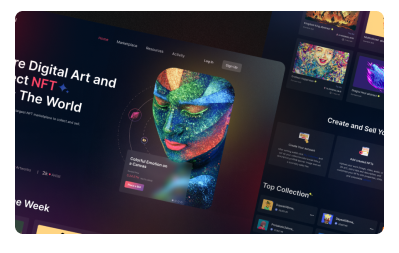
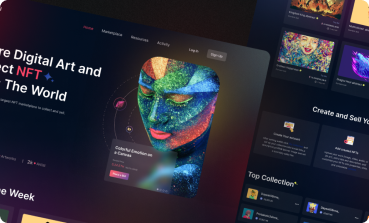
commit

diff --git a/index.html b/index.html
@@ -25,45 +25,55 @@
                             <span></span>
                         </label>
                         <ul class="mobileView d-flex align-items-center mb-0 px-0 justify-content-center gap-40">
-                            <li><a class="text-decoration-none font1" href="#">Home</a></li>
-                            <li><a class="text-decoration-none font2" href="#">Services</a></li>
-                            <li><a class="text-decoration-none font2" href="#">Projects</a></li>
-                            <li><a class="text-decoration-none font2" href="#">About</a></li>
-                            <li class="ml-180"><button class="button1 font3">Connect Wallet</button></li> 
+                            <li><a class="text-decoration-none font1 hover2" href="#">Home</a></li>
+                            <li><a class="text-decoration-none font2 hover2" href="#">Services</a></li>
+                            <li><a class="text-decoration-none font2 hover2" href="#">Projects</a></li>
+                            <li><a class="text-decoration-none font2 hover2" href="#">About</a></li>
+                            <li class="ml-180"><button class="button1 font3">Connect Wallet</button></li>
                         </ul>
                     </div>
                 </div>
             </nav>
         </header>
-        <div class="bg-img d-flex flex-grow-1 align-items-center position-relative">
-            <div class="container">
-                <div class="row">
-                    <div class="col-lg-6 col-12">
-                        <h1 class="font4 lines">We are believers decentralization andspa Web3.</h1>
-                        <p class="font5">Vulputate tristique habitant neque, accumsan. Vitae ultrices nulla erat nibh
-                            aliquam, quis tempus volutpat arcu. Leo convallis luctus dis malesuada turpis non consequat
-                            ac.
-                        </p>
-                        <div class="d-flex gap-32">
-                            <button class="button2 font6 mb-0">Get Started <svg width="18" height="12"
-                                    viewBox="0 0 18 12" fill="none" xmlns="http://www.w3.org/2000/svg">
-                                    <path
-                                        d="M17.495 6.49497C17.7683 6.22161 17.7683 5.77839 17.495 5.50503L13.0402 1.05025C12.7668 0.776886 12.3236 0.776886 12.0503 1.05025C11.7769 1.32362 11.7769 1.76684 12.0503 2.0402L16.01 6L12.0503 9.9598C11.7769 10.2332 11.7769 10.6764 12.0503 10.9497C12.3236 11.2231 12.7668 11.2231 13.0402 10.9497L17.495 6.49497ZM0 6.7H17V5.3H0V6.7Z"
-                                        fill="black" />
-                                </svg>
-                            </button>
-                            <button class="button3 font7">Read More</button>
+        <div class="bg-img">
+            <div class="bg-img d-flex flex-grow-1 align-items-center position-relative mt-28">
+                <div class="container">
+                    <div class="row">
+                        <div class="col-lg-6 col-12">
+                            <h1 class="font4 lines text-uppercase">We are believers decentralization andspa Web3.</h1>
+                            <p class="font5">Vulputate tristique habitant neque, accumsan. Vitae ultrices nulla erat
+                                nibh
+                                aliquam, quis tempus volutpat arcu. Leo convallis luctus dis malesuada turpis non
+                                consequat
+                                ac.
+                            </p>
+                            <div class="d-flex gap-32 pt-40">
+                                <button class="button2 font6 mb-0">Get Started <svg width="18" height="12"
+                                        viewBox="0 0 18 12" fill="none" xmlns="http://www.w3.org/2000/svg">
+                                        <path
+                                            d="M17.495 6.49497C17.7683 6.22161 17.7683 5.77839 17.495 5.50503L13.0402 1.05025C12.7668 0.776886 12.3236 0.776886 12.0503 1.05025C11.7769 1.32362 11.7769 1.76684 12.0503 2.0402L16.01 6L12.0503 9.9598C11.7769 10.2332 11.7769 10.6764 12.0503 10.9497C12.3236 11.2231 12.7668 11.2231 13.0402 10.9497L17.495 6.49497ZM0 6.7H17V5.3H0V6.7Z"
+                                            fill="black" />
+                                    </svg>
+                                </button>
+                                <button class="button3 font7">Read More</button>
+                            </div>
+                        </div>
+                        <div class="col-lg-6 col-12 text-lg-end">
+                            <div class="img-1">
+                                <img class="header-img" src="assets/images/header-img.png" alt="header-img">
+                            </div>
                         </div>
                     </div>
-                    <div class="col-lg-6 col-12 text-lg-end">
-                        <div class="img-1">
-                            <img class="header-img" src="assets/images/header-img.png" alt="header-img">
-                        </div>
+                    <div class="text-center">
+                        <svg width="16" height="52" viewBox="0 0 16 52" fill="none" xmlns="http://www.w3.org/2000/svg">
+                            <path opacity="0.7" d="M7.2929 51.7071C7.68342 52.0976 8.31658 52.0976 8.70711 51.7071L15.0711 45.3431C15.4616 44.9526 15.4616 44.3195 15.0711 43.9289C14.6805 43.5384 14.0474 43.5384 13.6569 43.9289L8 49.5858L2.34315 43.9289C1.95262 43.5384 1.31946 43.5384 0.928934 43.9289C0.53841 44.3195 0.53841 44.9526 0.928934 45.3431L7.2929 51.7071ZM7 4.37114e-08L7 51L9 51L9 -4.37114e-08L7 4.37114e-08Z" fill="white"/>
+                            </svg>
+                            
                     </div>
                 </div>
             </div>
         </div>
-        <div class="ellipse-1"></div>
+        <div class="ellipse-1"></div> hover2
     </section>
     <section>
         <div class="container">
@@ -182,7 +192,8 @@
         <div class="container">
             <h2 class="font13 text-uppercase lines-3 pt-136">Services</h2>
             <div class="row pt-77">
-                <div class="col-lg-3 col-md-6 col-12">
+                <div class="col-lg-3 col-md-6 col-12 hover position-relative">
+                    <div class="circle"></div>
                     <div class="card-2">
                         <div class="content-2">
                             <img src="assets/images/contract-line.png" alt="contract-line">
@@ -193,7 +204,8 @@
                         </div>
                     </div>
                 </div>
-                <div class="col-lg-3 col-md-6 col-12">
+                <div class="col-lg-3 col-md-6 col-12 hover position-relative">
+                    <div class="circle"></div>
                     <div class="card-2">
                         <div class="content-2">
                             <img src="assets/images/file.png" alt="file">
@@ -204,7 +216,8 @@
                         </div>
                     </div>
                 </div>
-                <div class="col-lg-3 col-md-6 col-12">
+                <div class="col-lg-3 col-md-6 col-12 hover position-relative">
+                    <div class="circle"></div>
                     <div class="card-2">
                         <div class="content-2">
                             <img src="assets/images/solution-outlined.png" alt="solution-outlined">
@@ -215,7 +228,8 @@
                         </div>
                     </div>
                 </div>
-                <div class="col-lg-3 col-md-6 col-12">
+                <div class="col-lg-3 col-md-6 col-12 hover position-relative">
+                    <div class="circle"></div>
                     <div class="card-2">
                         <div class="content-2">
                             <img src="assets/images/service-management.png" alt="service-management">
@@ -234,7 +248,7 @@
         <div class="container">
             <h2 class="font16 text-uppercase lines-4 pt-100">PROJECTS</h2>
             <div class="d-flex justify-content-center">
-                <p class="font17">Id nam massa sit ut purus tortor est ultrices nunc. Ipsum, nibh egestas vehicula
+                <p class="font17 pt-20">Id nam massa sit ut purus tortor est ultrices nunc. Ipsum, nibh egestas vehicula
                     tellus. Molestie adipiscing diam nibh lectus. Magna id nisl quis vestibulum rhoncus.</p>
             </div>
             <div class="row">
@@ -248,7 +262,7 @@
                 </div>
                 <div class="col-lg-3 col-md-6 col-12">
                     <div class="project-item position-relative">
-                        <img src="assets/images/project-8.png" alt="The New York Nine" class="project-img">
+                        <img src="assets/images/project-8.png" alt="The Tokyo Ten" class="project-img">
                         <div class="hover-text">
                             <p class="font22 d-flex align-items-center justify-content-center">The Tokyo Tem</p>
                         </div>
@@ -256,7 +270,7 @@
                 </div>
                 <div class="col-lg-3 col-md-6 col-12">
                     <div class="project-item position-relative">
-                        <img src="assets/images/project-3.png" alt="The London Eight" class="project-img">
+                        <img src="assets/images/project-3.png" alt="The Tokyo Ten" class="project-img">
                         <div class="hover-text">
                             <p class="font22 d-flex align-items-center justify-content-center">The Tokyo Tem</p>
                         </div>
@@ -264,7 +278,7 @@
                 </div>
                 <div class="col-lg-3 col-md-6 col-12">
                     <div class="project-item position-relative">
-                        <img src="assets/images/project-4.png" alt="The Paris Seven" class="project-img">
+                        <img src="assets/images/project-4.png" alt="The Tokyo Ten" class="project-img">
                         <div class="hover-text">
                             <p class="font22 d-flex align-items-center justify-content-center">The Tokyo Tem</p>
                         </div>
@@ -272,7 +286,7 @@
                 </div>
                 <div class="col-lg-3 col-md-6 col-12">
                     <div class="project-item position-relative">
-                        <img src="assets/images/project-5.png" alt="The Berlin Six" class="project-img">
+                        <img src="assets/images/project-5.png" alt="The Tokyo Ten" class="project-img">
                         <div class="hover-text">
                             <p class="font22 d-flex align-items-center justify-content-center">The Tokyo Tem</p>
                         </div>
@@ -280,7 +294,7 @@
                 </div>
                 <div class="col-lg-3 col-md-6 col-12">
                     <div class="project-item position-relative">
-                        <img src="assets/images/project-6.png" alt="The Berlin Six" class="project-img">
+                        <img src="assets/images/project-6.png" alt="The Tokyo Ten" class="project-img">
                         <div class="hover-text">
                             <p class="font22 d-flex align-items-center justify-content-center">The Tokyo Tem</p>
                         </div>
@@ -288,7 +302,7 @@
                 </div>
                 <div class="col-lg-3 col-md-6 col-12">
                     <div class="project-item position-relative">
-                        <img src="assets/images/project-7.png" alt="The Berlin Six" class="project-img">
+                        <img src="assets/images/project-7.png" alt="The Tokyo Ten" class="project-img">
                         <div class="hover-text">
                             <p class="font22 d-flex align-items-center justify-content-center">The Tokyo Tem</p>
                         </div>
@@ -296,7 +310,7 @@
                 </div>
                 <div class="col-lg-3 col-md-6 col-12">
                     <div class="project-item position-relative">
-                        <img src="assets/images/project-8.png" alt="The Berlin Six" class="project-img">
+                        <img src="assets/images/project-8.png" alt="The Tokyo Ten" class="project-img">
                         <div class="hover-text">
                             <p class="font22 d-flex align-items-center justify-content-center">The Tokyo Tem</p>
                         </div>
@@ -315,7 +329,7 @@
                     </div>
                     <div class="col-lg-3 col-md-6 col-12">
                         <div class="project-item position-relative">
-                            <img src="assets/images/project-8.png" alt="The New York Nine" class="project-img">
+                            <img src="assets/images/project-8.png" alt="The Tokyo Ten" class="project-img">
                             <div class="hover-text">
                                 <p class="font22 d-flex align-items-center justify-content-center">The Tokyo Tem</p>
                             </div>
@@ -323,7 +337,7 @@
                     </div>
                     <div class="col-lg-3 col-md-6 col-12">
                         <div class="project-item position-relative">
-                            <img src="assets/images/project-3.png" alt="The London Eight" class="project-img">
+                            <img src="assets/images/project-3.png" alt="The Tokyo Ten" class="project-img">
                             <div class="hover-text">
                                 <p class="font22 d-flex align-items-center justify-content-center">The Tokyo Tem</p>
                             </div>
@@ -331,7 +345,7 @@
                     </div>
                     <div class="col-lg-3 col-md-6 col-12">
                         <div class="project-item position-relative">
-                            <img src="assets/images/project-4.png" alt="The Paris Seven" class="project-img">
+                            <img src="assets/images/project-4.png" alt="The Tokyo Ten" class="project-img">
                             <div class="hover-text">
                                 <p class="font22 d-flex align-items-center justify-content-center">The Tokyo Tem</p>
                             </div>
@@ -355,13 +369,13 @@
                         malesuada.</span></p>
             </div>
             <div class="row pt-48">
-                <div class="col-lg-4 col-md-6 col-12">
+                <div class="col-lg-4 col-md-6 col-12 hover3">
                     <img class="w-100" src="assets/images/footer-img-1.png" alt="footer-img-1">
                 </div>
-                <div class="col-lg-4 col-md-6 col-12">
+                <div class="col-lg-4 col-md-6 col-12 hover3">
                     <img class="w-100" src="assets/images/footer-img-2.png" alt="footer-img-2">
                 </div>
-                <div class="col-lg-4 col-md-6 col-12">
+                <div class="col-lg-4 col-md-6 col-12 hover3">
                     <img class="w-100" src="assets/images/footer-img-3.png" alt="footer-img-3">
                 </div>
             </div>

diff --git a/assets/css/style.css b/assets/css/style.css
@@ -66,7 +66,7 @@ body {
     height: 1px;
     background-color: #FFF;
     position: absolute;
-    top: 38%;
+    top: 35%;
     left: 29%;
     transform: rotate(-4deg);
 }
@@ -77,7 +77,7 @@ body {
     height: 1px;
     background-color: #FFF;
     position: absolute;
-    top: 46%;
+    top: 43%;
     left: 27%;
     transform: rotate(-4deg);
 }
@@ -85,19 +85,18 @@ body {
 .cursor-pointer {
     cursor: pointer;
 }
-.navbar{
-    display: flex;
-    justify-content: space-between;
-    width: 65%;
-}
-
 
 .bg-img {
     background-image: url("/assets/images/section-img.png");
     background-size: cover;
     background-repeat: no-repeat;
     min-height: 865px;
-    opacity: 0.8;
+}
+.mt-28{
+    margin-top: 28px;
+}
+.pt-40{
+    padding-top: 40px;
 }
 
 .font4 {
@@ -129,6 +128,7 @@ body {
     padding: 12px 24px 12px 24px;
     border-radius: 82px;
     background-color: #FFFFFF;
+    border: none;
 }
 
 .button3 {
@@ -315,12 +315,12 @@ body {
 
 .card-2 {
     max-width: 264px;
-    /* height: 276px; */
     padding: 20px;
     border-radius: 12px;
     background-color: transparent;
     position: relative;
     z-index: 2;
+    border: 1px solid transparent;
 }
 
 
@@ -354,13 +354,21 @@ body {
     padding-top: 6px;
 }
 
-.card-2:hover {
-    box-shadow: 0px 4px 20px 0px #00000026;
-    border: 1px solid #FFFFFF1A;
-    background-color: #FFFFFF1A;
+
+.hover:hover .circle{
+    display: block;
 }
 
-.card-2:hover::before {
+.hover:hover .card-2{
+    border-radius: 12px;
+    border: 1px solid rgba(255, 255, 255, 0.10);
+    background: rgba(255, 255, 255, 0.10);
+    box-shadow: 0px 4px 20px 0px rgba(0, 0, 0, 0.15);
+    backdrop-filter: blur(8px);
+    border: 1px solid transparent;
+}
+
+.circle {
     content: "";
     position: absolute;
     top: -25px;
@@ -371,6 +379,7 @@ body {
     background: white;
     box-shadow: 0px 4px 16px 0px #FFFFFF1A;
     z-index: -1;
+    display: none;
 }
 
 .pt-77 {
@@ -384,7 +393,6 @@ body {
     min-height: 1024px;
     position: relative;
     top: 140px;
-    /* opacity: 0.6; */
 }
 
 .font16 {
@@ -459,7 +467,7 @@ color: #040404;
 
 
 .project-item {
-    margin: 10px;
+    margin-bottom: 20px;
 }
 
 .project-img {
@@ -587,7 +595,7 @@ box-shadow: 0px -1px 11px 0px #FFFFFF1A;
 .hover-text{
     position: absolute;
     bottom: -20%;
-    right: -24%;
+    right: -15%;
     display: none;
 }
 .project-item:hover .hover-text {
@@ -635,6 +643,12 @@ box-shadow: 0px -1px 11px 0px #FFFFFF1A;
     position: absolute;
     right: 0;
     top: -13%;
+}
+.hover2:hover{
+    color: gray;
+}
+.hover3:hover{
+    transform: scale(1.1);
 }
 @media(max-width:992px){
     .card{
@@ -695,7 +709,7 @@ box-shadow: 0px -1px 11px 0px #FFFFFF1A;
         min-height: 100vh;
         right: -100%;
         transition: all 1000ms linear;
-        background-color: orange;
+        background-color: grey;
         z-index: 3;
     }
     .mobileView.show{
